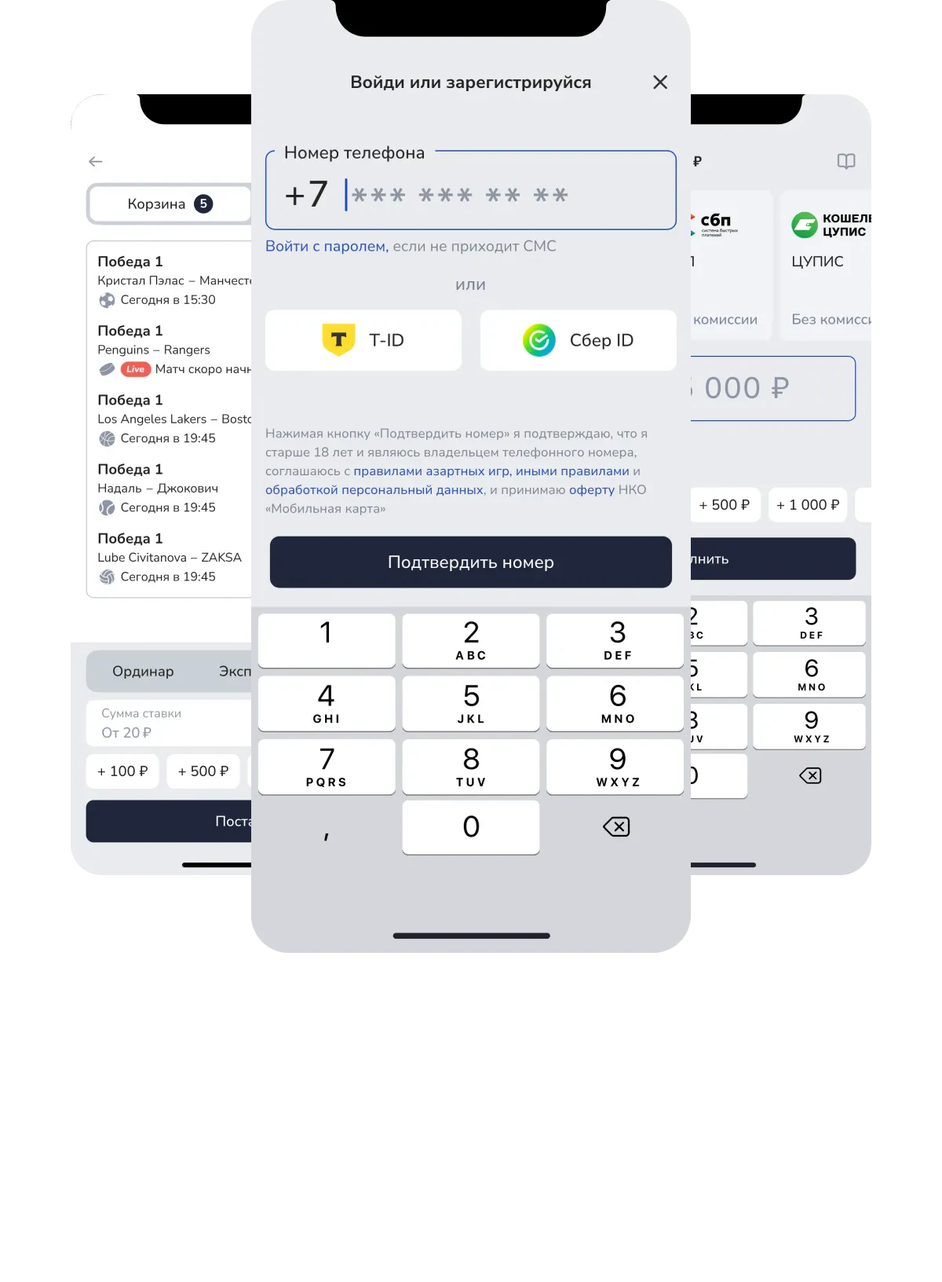
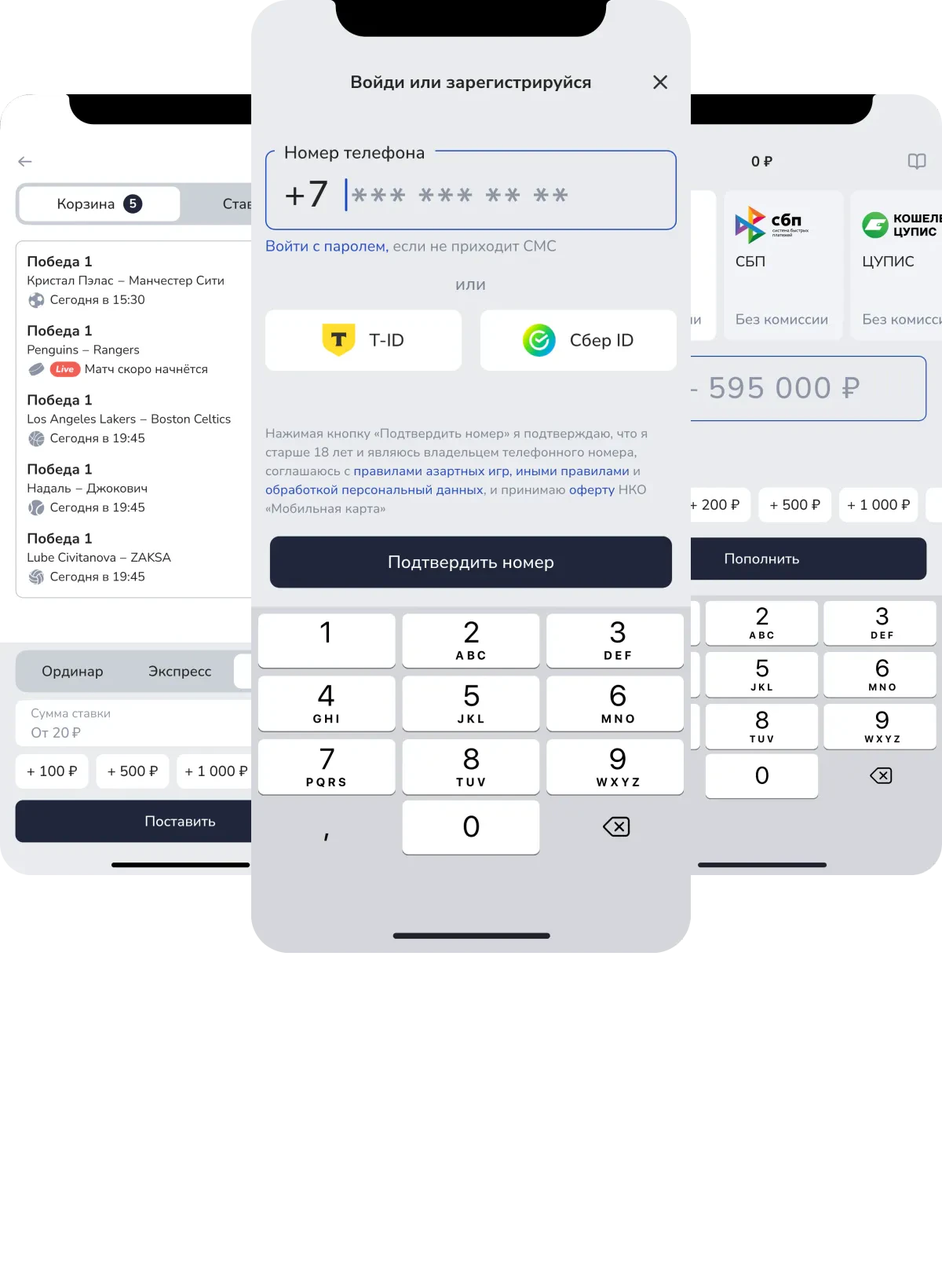
Главная: в плитке Betting боковые экраны раздвинуты до полей плитки
Claude-Session: https://claude.ai/code/session_0119GZRZJ2E6EHHBXrJoVv6L

diff --git a/CLAUDE.md b/CLAUDE.md
@@ -170,7 +170,7 @@ pnpm deploy:yandex
 - `src/content/{ru,en}/cases/*.mdx` — кейсы. Типографика в MDX — hast-плагин Sätteri `src/i18n/rehype-typograph.ts` (в `astro.config.mjs`, см. «Типографика»)
 - **Страница кейса** `src/pages/[lang]/cases/[slug].astro`: шапка кейса (годы `period` — кеглем текста кейса `--text-case-body`, заголовок, теги `tags` — цветные плашки по порядку `--case-tag-1` (зелёный #2fa802), `--case-tag-2` (малиновый #ad0063), скругление `--case-tag-radius` 8px, кегль и начертание как у текста кейса; чипсы навыков `Chips` — прозрачные с обводкой `--case-chip-border`, поля по бокам `--case-chip-pad-x` 12px; заголовок кейса — вес 600; отступ годы → заголовок — `--case-hero-gap` 12px, заголовок → теги — вдвое больше, 24px, между тегами — 16px (удвоенный `--chip-gap`), теги → текст (и теги → обложка на узком) — `--case-lead-gap` 32px; **красная строка** у абзацев текста кейса — `--case-indent` `round(0.75em, 2px)` (12px), кроме подзаголовков капсом, подписей и чисел; между абзацами — пустая строка (1em), списки и пункты списков — без промежутков; пункты списков с заглавной буквы и без знаков в конце (без «;» и «.»); маркер списка — под первой буквой абзаца (на красной строке, свой `::before`), текст пункта — через `--case-bullet-gap` 20px; `TextColumns` — жёлтым `--case-accent`, вводная строка + `<Columns>` с двумя списками (у Betting слева 2 пункта, справа 1), пункты колонок на одном уровне; до чипсов навыков — `--case-chips-gap` 24px, между чипсами — 16px со всех сторон, как между тегами; начало абзаца отмечает красная строка; `**выделение**` в тексте кейса выглядит как обычный текст — без белого цвета и жирности), тема `theme: dark` (тёмно-синий фон `--case-bg`, акцент `--case-accent` #fcd537). **Шапка кейса с обложкой** (`cover`): на широком контейнере (≥800px) обложка справа (`float`, 40%), по вертикали — посередине между верхом годов и текстом под ней (`centerCover` в CaseDrawer: отступы сверху и снизу равны, текст обтекает с самой картинки — `shape-outside: inset(отступ 0 0 0)`; блок под обложкой — `TextColumns` с `clear`; если текст рядом короче обложки — обложка вровень с годами); рядом — годы, заголовок, теги и первый текст кейса (в MDX — обычный текст сразу после импортов), ниже обложки текст во всю ширину; следующий блок `<TextColumns>` (clear) — текст, перетекающий в 2 колонки; на узком (и в модалке) — всё в колонку, обложка под тегами. Подписи к картинкам и схемам (`Figure`, `OldFlow`, `Screens`) — капсом, кеглем текста кейса `--text-case-body`, жёлтым `--case-accent`; от подписи до картинки — `--case-caption-gap` 24px. Компоненты для MDX — `src/components/case/`: `Flow` (текст перетекает из левой колонки в правую, CSS `columns: 2` от 800px контейнера, абзац может переноситься в следующую колонку, между абзацами без пустой строки — только красная строка; **сплошной текст в две колонки — всегда `Flow`, не `Columns`**: колонки равны по числу строк, текст не делится по смыслу на левую/правую; у Betting — «До», «После», «Звучит просто…», итоги и выводы по статистике; `Columns` остаётся для текста рядом с картинкой, а `TextColumns` — для списка задач с заданной раскладкой), `Screens` (экраны приложения в ряд: на широком — по центру своей трети, ширина `--case-screen-w` 84%; на узком — лента 240px с прокруткой; картинки `<имя>-{616,924}.webp`, 2x/3x от 308px), `Columns` (две колонки от 800px контейнера), `TextColumns` (вводная строка с отступом абзаца (1em) от текста выше и внутри `<Columns>` — колонки со своими списками; раскладку задаёт MDX, без JS), `Figure` (подпись-лейбл над картинкой; `scroll` — горизонтальная лента, `bleed` — в край), `Metrics` (жёлтые столбики, числа по локали), `Chips`. Токены — `--case-*` в `tokens.css`. Картинки — `public/images/cases/<кейс>/*.webp`, исходники — `design/cases/<кейс>/`.
 - **Кейсы открываются в модалке поверх главной** (`src/components/CaseDrawer.astro`, подключён в `[lang]/index.astro`; образец — avec anni): панель справа (`--case-panel-w`: 70vw/мин. 860px на десктопе — 70/30 с главной, 80vw на планшете, во весь экран на мобиле; поля внутри `--case-panel-gutter` 80/48/20px — и слева/справа, и сверху до контента: `--case-pad-top` = полю; вариант «годы по центру крестика» пользователь отклонил), главная затемнена (`--case-panel-backdrop`) и стоит на месте, панель выезжает плавно (`--case-panel-duration` 0.7s, `--case-panel-ease` — мягкое торможение до конца; стартует только после раскладки кейса и готовой обложки; причины рывков, которые убраны: фокус на элементе панели за краем экрана прокручивал диалог вбок (теперь фокус на самом диалоге, `overflow: clip`, фокус на содержимое — после выезда с `preventScroll`), и `lenis-stopped` ставил `overflow: clip` на `<html>` — пропадала полоса прокрутки и страница перекладывалась (при открытом кейсе `html.case-open` держит `overflow: visible`, прокрутку страницы гасит сам Lenis); у обложки кейса `width/height` из заголовка WebP), прокрутка внутри панели (`data-lenis-prevent`, Lenis на время остановлен; `overscroll-behavior: none` — панель не оттягивается «резинкой» ни сверху, ни вбок). Закрыть: крестик в квадрате со скруглением вверху справа (`--case-close-size` 40px, `--case-close-radius` 10px, полупрозрачный белый; фокус при открытии — на содержимое, не на кнопку — жёлтой рамки нет), клик по затемнению (подсказки у курсора нет — убрана по просьбе), после закрытия мышью фокус с плитки снимается (без рамки), Esc, «Назад». Ссылки с `data-case-link` (плитка Betting) перехватываются в фазе захвата раньше ClientRouter; содержимое берётся со страницы кейса (`article.case` + её `<style>`), кейсы подгружаются заранее. Адрес меняется на адрес кейса (`pushState` с `caseDrawer`); «Назад/Вперёд» ловит слушатель `popstate` во встроенном скрипте `<head>` (BaseLayout → `window.__casePopstate`) — он обязан стоять раньше ClientRouter, иначе тот перезагружает главную. **Прямой заход и перезагрузка по адресу кейса — та же главная, а кейс поверх неё в уже открытой модалке** (как после клика, без выезда: `CaseDrawer open` + слот; страница `[slug].astro` = `HomeContent` + `CaseDrawer` с `CaseArticle`); закрыть — адрес меняется на главную (`replaceState`, состояние `caseDirect`), переключатель языка переводится на главную другого языка. Кейс — компонент `src/components/CaseArticle.astro`, главная — `src/components/HomeContent.astro` (Hero + Tiles + About). **Поля слева и справа одинаковые** — ничего не выходит в края (ни ленты, ни схемы, ни картинки); `bleed` у `Figure` — только если пользователь сам укажет блок. Между колонками в модалке (и от текста до обложки) — `--case-col-gap` 20px, колонки на всю ширину до полей (правый край — по крестику). Шрифты кейса в модалке мельче (заголовок кейса — 58px с интервалом 52px на MacBook Pro 16″ (1728px): `--text-display` `clamp(28px, 10px + 2.8vw, 58px)`, `--leading-display` 0.9; переопределены `--text-display`, `--text-tile-title`, `--text-case-body`, `--case-label-size`, `--case-metric-size`, `--text-chip` в `.case-drawer__scroll`); заголовок кейса не шире контейнера (`min(--text-display, 11cqi)`). Раскладка кейса — по ширине контейнера (`container: case`, `@container case (min-width: 800px)`), а не экрана.
-- **Кейс Betting** (`betting.mdx`, собран из Figma-артборда `1792:131065`): плитка Betting на главной ведёт на него (`TILE_CASES` в `Tiles.astro`, ссылка в заголовке растянута на плитку). Figma MCP: картинки — через `get_screenshot` (base64), т.к. `figma.com` сетью закрыт; рендеры 1x. **Схема старой регистрации — кодом** (`src/components/case/betting/OldFlow.astro`): SVG с геометрией из макета (исходник `design/cases/betting/old-flow.svg`, 1320 × 849; линии — контуры из макета), тексты — наш шрифт Onest, по локали (RU/EN), подписи поверх линий «вырезают» линию обводкой цветом фона (из-за обводки текст схемы не выделяется — `user-select: none`); цвета — токены `--case-flow-*`; уже `--case-flow-min-w` (960px) листается по горизонтали. **Обложка кейса — слайдер экранов** (`slides` во frontmatter вместо `cover`: экраны слева направо, первым показан средний; `src/components/case/CoverSlider.astro` + `src/scripts/cover-slider.ts`, подключает CaseDrawer): на широком обложка шириной с правую колонку `<Columns>` (`(100% − --case-col-gap) / 2`), текст рядом — шириной с левую; слайдер — от маркера списков правой колонки (отступ `--case-indent`) до правого края (края крестика), текущий экран — 56% ширины слайдера (`--case-slide-w`), соседи — 82% размера, внешний край — по краю обложки; соседи приглушены **яркостью** `filter: brightness(--case-slide-side-bright 0.55)`, а не прозрачностью и не слоем с маской (прозрачность — экраны просвечивали друг сквозь друга; слой с `mask` мигал тёмным прямоугольником, пока маска не загружена); слайды — `will-change: transform` (без мигания при создании слоёв; экран, переезжающий с края на край, — позади всех, `data-wrap`); стрелок нет — экраны кликабельны (сосед слева — назад, текущий и правый — вперёд); наведение — только на соседей: поворот ∓1.5° и светлеют (текущий не реагирует); автопрокрутка каждые 4с (стоит под курсором, при фокусе с клавиатуры, на скрытой вкладке и при reduced motion); переход 0.9с (`--case-slide-ease` — быстрый старт, мягкое торможение); **кто впереди — меняется посередине перехода** (`z-index` с задержкой D/2), когда экраны поравнялись по размеру и яркости; смена в первый кадр давала «моргание» — тёмный сосед мгновенно перекрывал светлый центр; токены `--case-slide-*`. Экраны Betting: слева «003.0 Система», центр «001.0-A Верификация…», справа «001.0-A Default» (исходники — SVG в `design/cases/betting/cover/`, рендер в Chromium → WebP 2x/3x: `public/images/cases/betting/cover-*-{750,1125}.webp`, `srcset`; PNG 1x были мыльными; при рендере экран обрезается скруглением 32px — в SVG из Figma без обтравки фрейма углы выходили квадратными; у «Верификации» подложка клавиатуры дотянута до низа — в исходнике снизу была светлая полоска 4px). В плитке Betting на главной — `betting-tile-{600,1200}.webp` (`TILE_IMAGES`): те же три экрана, что в обложке (центр «Верификация», слева «Система», справа «Default»), собраны в композицию 1200 × 1632 как у «Метра квадратного», но мельче (центральный экран 560px = 47% ширины против 62%), боковые — 82% размера, без затемнения, прозрачный фон; собрано sharp из `cover-*-1125.webp`. **Селектор сценариев** (`src/components/case/CaseTabs.astro`, под чипсами навыков): вкладки Процессы / Регистрация / Пополнение / Корзина (RU/EN), выбрана «Регистрация» — в слоте весь рассказ о регистрации до конца кейса; у остальных — заглушка «Кейс в разработке» (`case.soon`) с картинкой-экраном, блоки которого мерцают жёлтым; переключение без JS (радиокнопки + `:has`), выбранная — жёлтая заливка, на узком контейнере 2 × 2; заголовок сценария по центру (вес 600); остальные заголовки разделов в сценарии («Подробнее о процессе» и дальше) — так же вес 600, кегль 32px на 1728, сверху 48px (`--case-tabs-gap`) вместо `--case-section-gap`; метки «До / После» — по центру, белые, с заглавной, кеглем текста (варианты «заголовки как в hero» и «До/После кеглем заголовка» пользователь отменил); отступы: чипсы → селектор → заголовок — `--case-tabs-gap` 48px, заголовок → «До» — `--case-tabs-title-gap` 24px, экраны → «После» — 32px (нижний отступ блока над меткой обнуляется, `:has(+ h3)`), «До/После» → текст в две колонки — `--case-tabs-label-gap` 32px, между блоками сценария (колонки, схемы, картинки, метрики) — `--case-tabs-block-gap` 32px (переопределяет `--case-block-gap` в панели) (на всех экранах); токены `--case-tabs-*`. Чипсы навыков — шрифт как у тегов (`--text-case-body`); список: легаси, стейкхолдеры, продуктовые сессии, аналитика, Наставничество / Mentoring (CJM и «Продуктовое мышление» убраны). **Mind map новой регистрации** — картинка из SVG пользователя (`design/cases/betting/new-flow.svg`, 1320 × 475; синяя надпись «Регистрация и идентификация в один шаг» поднята на 4px — `<g transform="translate(0 -4)">` в исходнике → `public/images/cases/betting/new-flow.webp` 2x, 2640 × 950, рендер в Chromium, прозрачный фон). **Макеты новой регистрации** — `Screens` из SVG пользователя (`design/cases/betting/new-screens/{001.0-A,002.0,001.0-0}.svg`, 375 × 812 → `public/images/cases/betting/new-{phone,code,identification}-{616,924}.webp`, скругление 32px; у 001.0-A подложка клавиатуры дотянута до низа, как у обложки). **Макеты старой регистрации** — `Screens` из SVG пользователя (`design/cases/betting/old-screens/003.3*.svg` → `public/images/cases/betting/old-{registration,confirm,identification}-{616,924}.webp`, рендер в Chromium, скругление 23px). Пропущено из артборда: QR-баннер, форма, футер, чипсы «???», переключатель старое/новое. Опечатки исходника исправлены.
+- **Кейс Betting** (`betting.mdx`, собран из Figma-артборда `1792:131065`): плитка Betting на главной ведёт на него (`TILE_CASES` в `Tiles.astro`, ссылка в заголовке растянута на плитку). Figma MCP: картинки — через `get_screenshot` (base64), т.к. `figma.com` сетью закрыт; рендеры 1x. **Схема старой регистрации — кодом** (`src/components/case/betting/OldFlow.astro`): SVG с геометрией из макета (исходник `design/cases/betting/old-flow.svg`, 1320 × 849; линии — контуры из макета), тексты — наш шрифт Onest, по локали (RU/EN), подписи поверх линий «вырезают» линию обводкой цветом фона (из-за обводки текст схемы не выделяется — `user-select: none`); цвета — токены `--case-flow-*`; уже `--case-flow-min-w` (960px) листается по горизонтали. **Обложка кейса — слайдер экранов** (`slides` во frontmatter вместо `cover`: экраны слева направо, первым показан средний; `src/components/case/CoverSlider.astro` + `src/scripts/cover-slider.ts`, подключает CaseDrawer): на широком обложка шириной с правую колонку `<Columns>` (`(100% − --case-col-gap) / 2`), текст рядом — шириной с левую; слайдер — от маркера списков правой колонки (отступ `--case-indent`) до правого края (края крестика), текущий экран — 56% ширины слайдера (`--case-slide-w`), соседи — 82% размера, внешний край — по краю обложки; соседи приглушены **яркостью** `filter: brightness(--case-slide-side-bright 0.55)`, а не прозрачностью и не слоем с маской (прозрачность — экраны просвечивали друг сквозь друга; слой с `mask` мигал тёмным прямоугольником, пока маска не загружена); слайды — `will-change: transform` (без мигания при создании слоёв; экран, переезжающий с края на край, — позади всех, `data-wrap`); стрелок нет — экраны кликабельны (сосед слева — назад, текущий и правый — вперёд); наведение — только на соседей: поворот ∓1.5° и светлеют (текущий не реагирует); автопрокрутка каждые 4с (стоит под курсором, при фокусе с клавиатуры, на скрытой вкладке и при reduced motion); переход 0.9с (`--case-slide-ease` — быстрый старт, мягкое торможение); **кто впереди — меняется посередине перехода** (`z-index` с задержкой D/2), когда экраны поравнялись по размеру и яркости; смена в первый кадр давала «моргание» — тёмный сосед мгновенно перекрывал светлый центр; токены `--case-slide-*`. Экраны Betting: слева «003.0 Система», центр «001.0-A Верификация…», справа «001.0-A Default» (исходники — SVG в `design/cases/betting/cover/`, рендер в Chromium → WebP 2x/3x: `public/images/cases/betting/cover-*-{750,1125}.webp`, `srcset`; PNG 1x были мыльными; при рендере экран обрезается скруглением 32px — в SVG из Figma без обтравки фрейма углы выходили квадратными; у «Верификации» подложка клавиатуры дотянута до низа — в исходнике снизу была светлая полоска 4px). В плитке Betting на главной — `betting-tile-{600,1200}.webp` (`TILE_IMAGES`): те же три экрана, что в обложке (центр «Верификация», слева «Система», справа «Default»), собраны в композицию 1200 × 1632 как у «Метра квадратного», но мельче (центральный экран 560px = 47% ширины против 62%), боковые — 82% размера, внешним краем ровно по краям картинки (= по полям плитки), без затемнения, прозрачный фон; собрано sharp из `cover-*-1125.webp`. **Селектор сценариев** (`src/components/case/CaseTabs.astro`, под чипсами навыков): вкладки Процессы / Регистрация / Пополнение / Корзина (RU/EN), выбрана «Регистрация» — в слоте весь рассказ о регистрации до конца кейса; у остальных — заглушка «Кейс в разработке» (`case.soon`) с картинкой-экраном, блоки которого мерцают жёлтым; переключение без JS (радиокнопки + `:has`), выбранная — жёлтая заливка, на узком контейнере 2 × 2; заголовок сценария по центру (вес 600); остальные заголовки разделов в сценарии («Подробнее о процессе» и дальше) — так же вес 600, кегль 32px на 1728, сверху 48px (`--case-tabs-gap`) вместо `--case-section-gap`; метки «До / После» — по центру, белые, с заглавной, кеглем текста (варианты «заголовки как в hero» и «До/После кеглем заголовка» пользователь отменил); отступы: чипсы → селектор → заголовок — `--case-tabs-gap` 48px, заголовок → «До» — `--case-tabs-title-gap` 24px, экраны → «После» — 32px (нижний отступ блока над меткой обнуляется, `:has(+ h3)`), «До/После» → текст в две колонки — `--case-tabs-label-gap` 32px, между блоками сценария (колонки, схемы, картинки, метрики) — `--case-tabs-block-gap` 32px (переопределяет `--case-block-gap` в панели) (на всех экранах); токены `--case-tabs-*`. Чипсы навыков — шрифт как у тегов (`--text-case-body`); список: легаси, стейкхолдеры, продуктовые сессии, аналитика, Наставничество / Mentoring (CJM и «Продуктовое мышление» убраны). **Mind map новой регистрации** — картинка из SVG пользователя (`design/cases/betting/new-flow.svg`, 1320 × 475; синяя надпись «Регистрация и идентификация в один шаг» поднята на 4px — `<g transform="translate(0 -4)">` в исходнике → `public/images/cases/betting/new-flow.webp` 2x, 2640 × 950, рендер в Chromium, прозрачный фон). **Макеты новой регистрации** — `Screens` из SVG пользователя (`design/cases/betting/new-screens/{001.0-A,002.0,001.0-0}.svg`, 375 × 812 → `public/images/cases/betting/new-{phone,code,identification}-{616,924}.webp`, скругление 32px; у 001.0-A подложка клавиатуры дотянута до низа, как у обложки). **Макеты старой регистрации** — `Screens` из SVG пользователя (`design/cases/betting/old-screens/003.3*.svg` → `public/images/cases/betting/old-{registration,confirm,identification}-{616,924}.webp`, рендер в Chromium, скругление 23px). Пропущено из артборда: QR-баннер, форма, футер, чипсы «???», переключатель старое/новое. Опечатки исходника исправлены.
 - `src/scripts/motion.ts` — Lenis + GSAP; анимации страницы регистрируются через `onPage()`, чистятся сами при переходах
 - **Перезагрузка всегда открывает первый слайд**: встроенный скрипт в `<head>` (`BaseLayout.astro`) до отрисовки ставит `history.scrollRestoration = 'manual'` и сбрасывает прокрутку наверх на `beforeunload`/`pagehide` (Safari/Firefox запоминают позицию при уходе); в `motion.ts` — прокрутка наверх при старте и ещё раз на `load` (страница + Lenis). Смена языка (переход без перезагрузки) место сохраняет.
 - **Смена языка меняет только текст**: переключатель вызывает `keepViewOnNextSwap()` — прокрутка сохраняется, анимация перехода пропускается; фон hero с градиентом — `transition:persist`, градиент не перезапускается и продолжает анимацию; фильтр фона (монохром по скроллу) сохраняется через переход. **Смена языка мгновенная** (`LanguageSwitcher.astro`): страница на другом языке загружается в память сразу после открытия (`astro:page-load`), при клике берётся оттуда (`event.loader` в `astro:before-preparation`), а снимок View Transition пропускается одноразовой подменой `document.startViewTransition` (снимок с WebGL-фоном и давал паузу 0.2–0.8с); замер: текст меняется через ~40–60 мс после клика.
@@ -190,7 +190,7 @@ pnpm deploy:yandex
 - **Картинки — с меткой версии** `?v=<md5 содержимого>` (`asset()` из `src/utils/asset.ts`: плитки, обложка и картинки кейса): зеркало Яндекса кэширует картинки на сутки, без метки после замены файла показывалась старая версия (так «Метр квадратный» оставался полупрозрачным). Новые картинки — тоже через `asset()`.
 - `site` в `astro.config.mjs` — заглушка, заменить на реальный домен
 
-Задеплоено (2026-09-30, последний — заголовки разделов сценария 600 и 48px сверху; своя картинка в плитке Betting; + зеркало Яндекс): https://vadimpianov.pages.dev — `/ru/`, `/en/` отдают 200, `/` редиректит (302) по cookie/стране.
+Задеплоено (2026-09-30, последний — в плитке Betting боковые экраны по полям плитки; + зеркало Яндекс): https://vadimpianov.pages.dev — `/ru/`, `/en/` отдают 200, `/` редиректит (302) по cookie/стране.
 
 ## Следующий шаг
 
